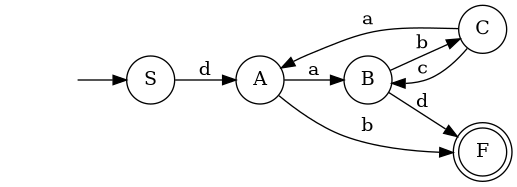
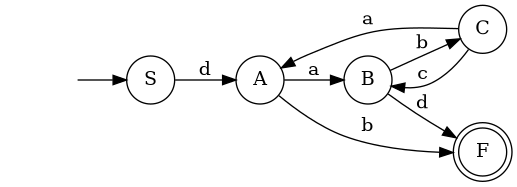
final

Changed region(s): [[0.7427, 0.2674, 0.9284, 0.7487]]

diff --git a/lab2/lab2.py b/lab2/lab2.py
@@ -1,5 +1,6 @@
 import random
 from graphviz import Digraph
+import pandas as pd
 
 class Grammar:
     def __init__(self, VN, VT, P, S):
@@ -139,6 +140,7 @@ class FiniteAutomaton:
         state_names = {dfa_start: 'q0'}
         state_counter = 1
 
+        # Check if the start state is also an accept state
         if any(state in self.accept_states for state in dfa_start):
             dfa_accept.add(state_names[dfa_start])
 
@@ -150,21 +152,28 @@ class FiniteAutomaton:
             for symbol in self.alphabet:
                 next_states = set()
                 for state in current:
-                    if symbol in self.transitions.get(state, {}):
+                    if state in self.transitions and symbol in self.transitions[state]:
                         next_states.update(self.transitions[state][symbol])
                 next_frozen = frozenset(next_states)
 
-                if not next_frozen: 
+                if not next_frozen:  # No transition for this symbol
                     continue
 
                 if next_frozen not in state_names:
                     state_names[next_frozen] = f'q{state_counter}'
                     state_counter += 1
                     queue.append(next_frozen)
+                    dfa_states.add(next_frozen)
+
+                    # Check if this new state is an accept state
                     if any(state in self.accept_states for state in next_frozen):
                         dfa_accept.add(state_names[next_frozen])
 
                 dfa_transitions[current_name][symbol] = state_names[next_frozen]
+
+        # Ensure q0 is a final state if it is in the NFA's accept states
+        if self.start_state in self.accept_states:
+            dfa_accept.add(state_names[dfa_start])
 
         dfa_states_renamed = set(state_names.values())
         return FiniteAutomaton(
@@ -211,6 +220,7 @@ F: {{{', '.join(map(str, self.accept_states))}}}"""
 
 
 if __name__ == "__main__":
+    # Define the grammar
     VN = {'S', 'A', 'B', 'C'}
     VT = {'a', 'b', 'c', 'd'}
     P = {
@@ -223,6 +233,7 @@ if __name__ == "__main__":
 
     grammar = Grammar(VN, VT, P, S)
 
+    # Define the NFA for Variant 26
     variant_states = {'q0', 'q1', 'q2', 'q3'}
     variant_alphabet = {'a', 'b', 'c'}
     variant_transitions = {
@@ -231,10 +242,10 @@ if __name__ == "__main__":
         'q2': {'c': {'q3'}},
         'q3': {'c': {'q3'}}
     }
-    variant_start = 'q0'
-    variant_accept = {'q3'}
+    variant_start = 'q0'  # q0 is always the starting state
+    variant_accept = {'q3'}  # q3 is always a final state
 
-    variant_dfa = FiniteAutomaton(
+    variant_nfa = FiniteAutomaton(
         variant_states,
         variant_alphabet,
         variant_transitions,
@@ -242,23 +253,31 @@ if __name__ == "__main__":
         variant_accept
     )
 
+    # Generate a string from the grammar
     generated_string = grammar.generate_string()
     print(f"Generated string: {generated_string}")
 
+    # Classify the grammar
     print(f"Grammar classification: {grammar.classify_grammar()}")
 
+    # Convert the grammar to a finite automaton
     fa = grammar.to_finite_automaton()
     print("\nFinite Automaton:")
     print(fa)
 
+    # Check if the automaton is deterministic
     print("\nIs deterministic:", fa.is_deterministic())
 
-    dfa = fa.convert_to_dfa()
+    # Convert NFA to DFA
+    dfa = variant_nfa.convert_to_dfa()
     print("\nDFA:")
     print(dfa)
 
+    # Print the regular grammar
     print("\nRegular Grammar:")
     print(grammar)
 
-    fa.visualize("NDFA")
-    variant_dfa.visualize("DFA")
+    # Visualize the NFA and DFA
+    fa.visualize("FA")
+    variant_nfa.visualize("NFA")
+    dfa.visualize("DFA")
